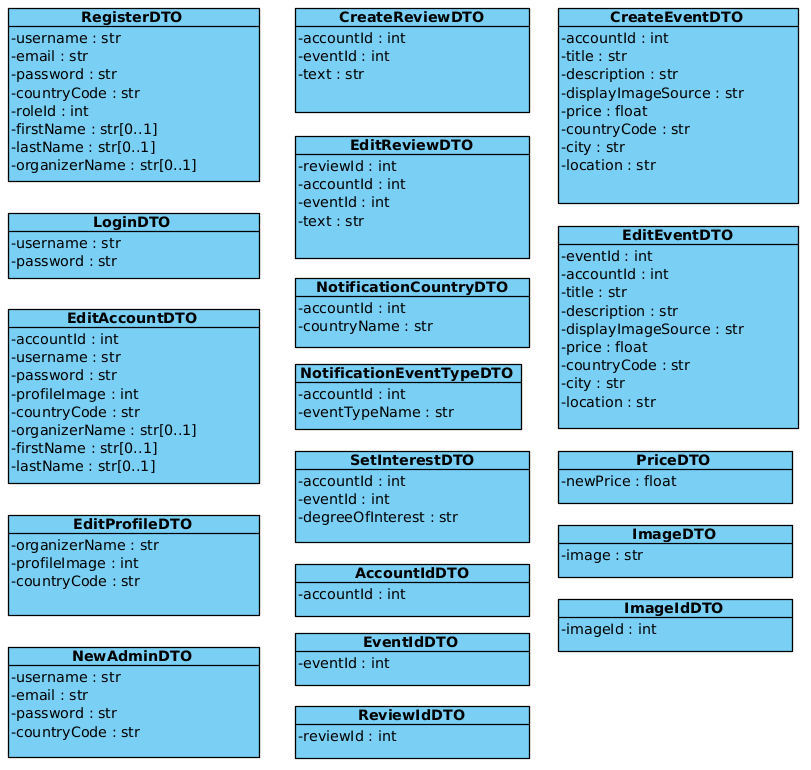
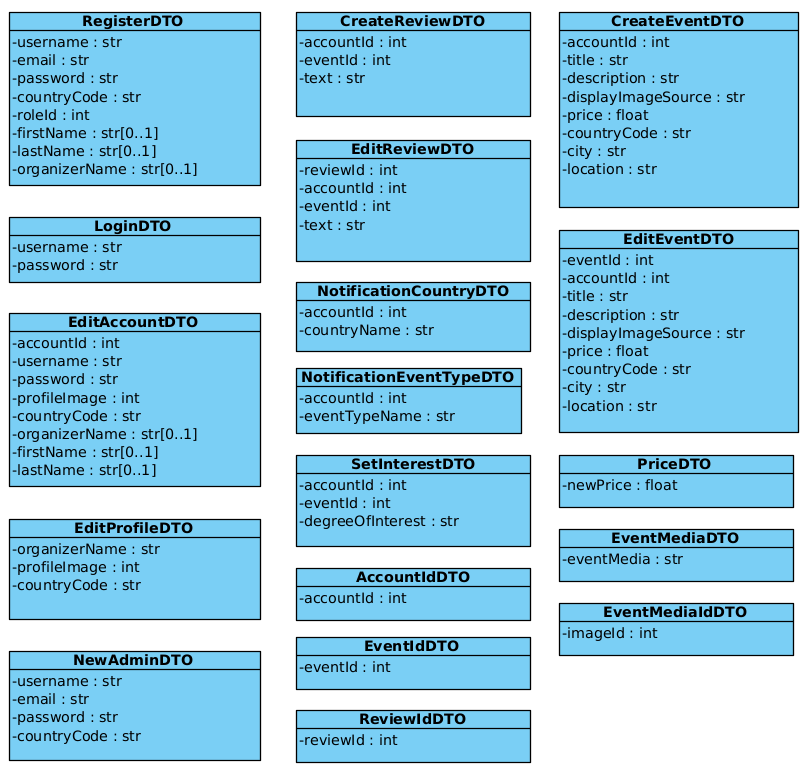
details

Changed region(s): [[0.0, 0.0, 0.9864, 0.9974], [0.894, 0.0935, 0.9248, 0.1558]]

diff --git a/dokumentacija/Dnevnik_promjena_dokumentacije.tex b/dokumentacija/Dnevnik_promjena_dokumentacije.tex
@@ -61,7 +61,9 @@
 			1.3 & Ažurirane tablice, opisi tablica, dijagram razreda i relacijski dijagram & Stjepan Đelekovčan & 15.1.2024. \\[3pt] \hline 
 			1.4 & Korekcija informacija i dijagrama prema implementaciji & Luka Miličević & 16.1.2024. \\[3pt] \hline
 			1.5 & Dijagram razmještaja, dijagram komponenti, korekcija dijagrama aktivnosti & Domagoj Sviličić & 17.1.2024. \\[3pt] \hline
-			1.5 & Dopuna korištenih tehnologija & Domagoj Sviličić & 17.1.2024. \\[3pt] \hline  
+			1.6 & Dopuna korištenih tehnologija & Domagoj Sviličić & 17.1.2024. \\[3pt] \hline  
+			1.7 & Dijagram stanja & Duje Huljev & 17.1.2024. \\[3pt] \hline
+			1.8 & Popravak detalja i dijagrama & Luka Miličević & 17.1.2024. \\[3pt] \hline
 			&  &  & \\[3pt] \hline	
 		\end{longtblr}
 	

diff --git a/dokumentacija/PROGI_ProjektnaDokumentacija.tex b/dokumentacija/PROGI_ProjektnaDokumentacija.tex
@@ -95,7 +95,7 @@
 			\vspace*{\stretch{3.0}}
 			
 			\huge ConnectiNET\\
-			\Large Dokumentacija, Rev. \textit{1}\\
+			\Large Dokumentacija, Rev. \textit{2}\\
 			
 			\vspace*{\stretch{12.0}}
 			\normalsize
@@ -104,7 +104,7 @@
 			
 			
 			\vspace*{\stretch{1.0}}
-			Datum predaje: \textit{17. 11. 2023.}\\
+			Datum predaje: \textit{19. 1. 2023.}\\
 	
 			\vspace*{\stretch{4.0}}
 			
